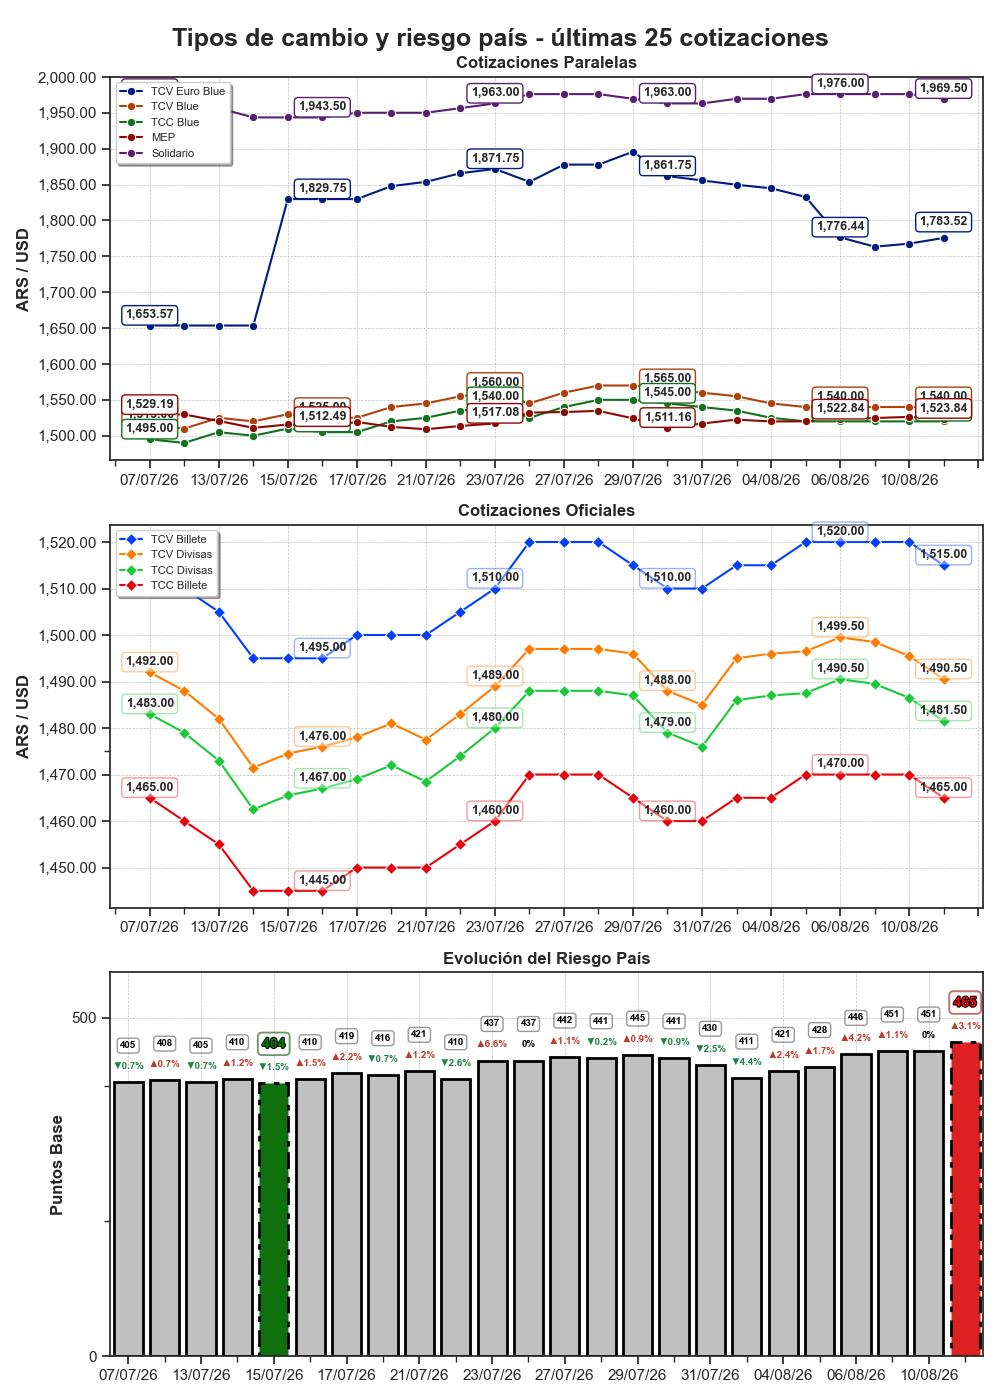
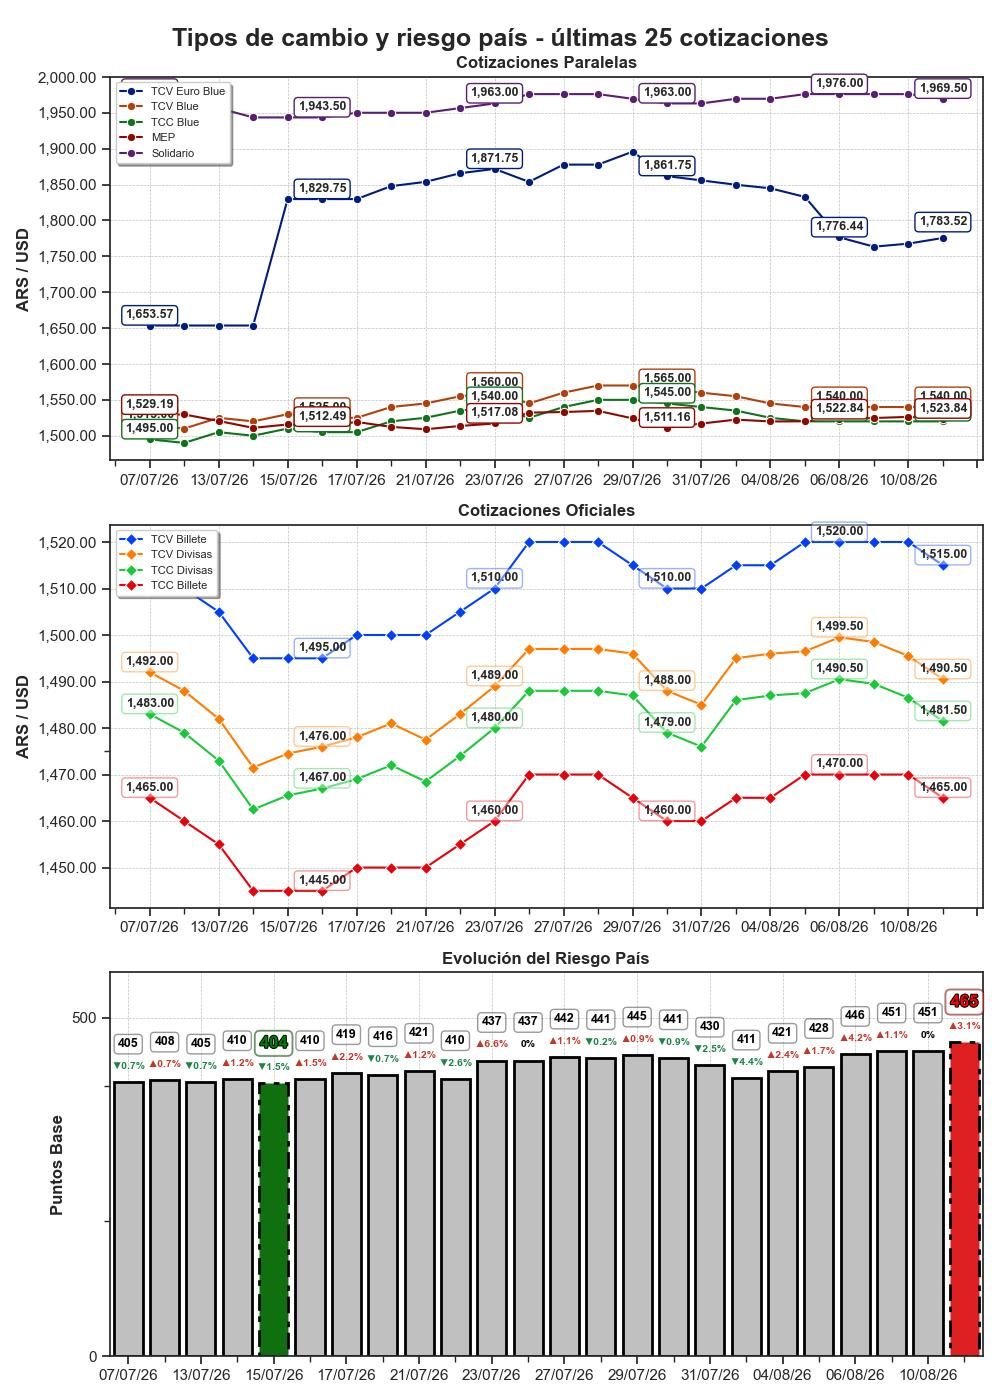
Ajustes de tipografia del cierre, tabla de inflacion y etiquetas del grafico
Plantilla del mail:
- Se saca la negrita de "Muchas gracias por leer".
- La linea del alias de MercadoPago pasa a 12px (1 mas que el resto) y se le
  achica el espacio de abajo, que quedaba grande.
- Las tres lineas del disclaimer quedan en el mismo tamano y sin cursivas.
  Solo el nombre y el mail van en negrita.
- Sombra en tablas y graficos. Gmail y Outlook descartan box-shadow, asi que
  el borde es lo que garantiza el recorte y la sombra queda como extra para
  los clientes que la soportan.
- La tabla de inflacion pasa de 8px a 12px. Tiene 4 columnas, no 14, asi que
  entra comoda; las otras dos se quedan en 8 o no entran en mobile.

Grafico de BTC: la etiqueta decia "Precio Hoy" pero el valor sale de
Close.iloc[-1], que es la ultima vela disponible y no necesariamente la de
hoy, porque yfinance cierra el dia en UTC y puede venir con retraso. Ahora
dice "Ultima cotizacion" y muestra la fecha del dato.

Grafico de riesgo pais: etiquetas mas grandes. El valor pasa de 7 a 9 (y de
10 a 12 en maximo y minimo). La variacion pasa de 7 a 7.5 y no mas: a 8.5 las
etiquetas de barras contiguas se tocaban, verificado renderizando.

diff --git a/templates/report_email.html b/templates/report_email.html
@@ -22,10 +22,21 @@
 
         /* TABLAS - scroll horizontal en mobile */
         .table-wrapper { width: 100%; overflow-x: auto; -webkit-overflow-scrolling: touch; }
-        table { border-collapse: collapse; width: 100%; min-width: 400px; margin: 12px 0; border: 1px solid #dcdde1; }
+        table { border-collapse: collapse; width: 100%; min-width: 400px; margin: 12px 0; border: 1px solid #dcdde1;
+                box-shadow: 0 2px 6px rgba(44,62,80,0.16); }
         table td, table th { font-size: 8px !important; padding: 4px 2px; text-align: center; border: 1px solid #dcdde1; }
         th { background-color: #2c3e50; color: #ffffff; text-transform: uppercase; }
         tr:nth-child(even) { background-color: #f8f9fa; }
+
+        /* La tabla de inflación tiene 4 columnas, no 14: entra cómoda con letra
+           más grande. Las otras dos se quedan en 8px o no entran en mobile. */
+        .tabla-inflacion table { min-width: 0; }
+        .tabla-inflacion table td, .tabla-inflacion table th { font-size: 12px !important; padding: 7px 6px; }
+
+        /* Sombra en los gráficos. Gmail y Outlook descartan box-shadow, así que
+           el borde es lo que garantiza el recorte; la sombra es un extra que se
+           ve en Apple Mail y clientes web modernos. */
+        .grafico { box-shadow: 0 2px 6px rgba(44,62,80,0.16); }
 
         /* HEADER */
         .header-box { background: #2c3e50; color: white; padding: 20px 15px; text-align: center; }
@@ -121,10 +132,10 @@
 
             <!-- GRÁFICOS -->
             <div style="text-align:center; width:100%; margin:20px 0;">
-              <img src='cid:image1' style="max-width:100%; height:auto; display:block; margin:0 auto 15px auto; border:1px solid #dcdde1; border-radius:4px;">
-              <img src='cid:image2' style="max-width:100%; height:auto; display:block; margin:0 auto 15px auto; border:1px solid #dcdde1; border-radius:4px;">
-              <img src='cid:image3' style="max-width:100%; height:auto; display:block; margin:0 auto 15px auto; border:1px solid #dcdde1; border-radius:4px;">
-              <img src='cid:image4' style="max-width:100%; height:auto; display:block; margin:0 auto 15px auto; border:1px solid #dcdde1; border-radius:4px;">
+              <img src='cid:image1' class="grafico" style="max-width:100%; height:auto; display:block; margin:0 auto 18px auto; border:1px solid #dcdde1; border-radius:4px; box-shadow:0 2px 6px rgba(44,62,80,0.16);">
+              <img src='cid:image2' class="grafico" style="max-width:100%; height:auto; display:block; margin:0 auto 18px auto; border:1px solid #dcdde1; border-radius:4px; box-shadow:0 2px 6px rgba(44,62,80,0.16);">
+              <img src='cid:image3' class="grafico" style="max-width:100%; height:auto; display:block; margin:0 auto 18px auto; border:1px solid #dcdde1; border-radius:4px; box-shadow:0 2px 6px rgba(44,62,80,0.16);">
+              <img src='cid:image4' class="grafico" style="max-width:100%; height:auto; display:block; margin:0 auto 18px auto; border:1px solid #dcdde1; border-radius:4px; box-shadow:0 2px 6px rgba(44,62,80,0.16);">
             </div>
 
             <!-- TABLA COTIZACIONES -->
@@ -141,7 +152,7 @@
             <!-- TABLA INFLACIÓN -->
             <p style="color:#2c3e50; margin-top:20px;">📈 <b><u>Termómetro de Inflación:</u></b><br>
             La siguiente tabla muestra las últimas 12 publicaciones del IPC. Tené en cuenta que la <b>inflación interanual es del {{ inflacion_interanual }}</b>:</p>
-            <div class="table-wrapper" style="width:100%; overflow-x:auto;">{{ tabla_inflacion | safe }}</div>
+            <div class="table-wrapper tabla-inflacion" style="width:100%; overflow-x:auto;">{{ tabla_inflacion | safe }}</div>
 
             <!-- FUENTES -->
             <div style="margin-top:30px; font-size:12px; color:#7f8c8d; border-top:1px solid #eee; padding-top:15px;">
@@ -158,7 +169,7 @@
 
             <!-- CIERRE -->
             <div style="margin-top:30px; border-top:1px solid #dcdde1; padding-top:20px;">
-              <p style="font-size:14px !important; color:#2c3e50;">🤓 <b>Muchas gracias por leer,</b><br>
+              <p style="font-size:14px !important; color:#2c3e50;">🤓 Muchas gracias por leer,<br>
               🤑 Ojalá esta información te sea de gran utilidad para tus decisiones.</p>
 
               <!-- Todo el cierre vive dentro de este recuadro.
@@ -173,14 +184,16 @@
                   <a href="https://linkedin.com/in/mauroemartinez/" style="text-decoration:none; color:#0077b5;"><b>LinkedIn</b></a>
                   | <a href="https://github.com/mauroemartinez/" style="text-decoration:none; color:#24292e;"><b>GitHub</b></a>
                 </p>
-                <p style="margin:0 0 14px 0; font-size:11px !important; color:#4d5a68;">
+                <p style="margin:0 0 8px 0; font-size:12px !important; color:#4d5a68;">
                   ☕ Si este reporte te ahorró tiempo y/o dinero, podés apoyar el proyecto al alias: <b style="color:#2c3e50;">mauroemartinezmp</b>
                 </p>
 
-                <div style="border-top:1px solid #dfe4ea; padding-top:14px; font-size:11px !important; color:#4d5a68; line-height:1.6;">
-                  🤖 <i>Este es un proceso de RPA desarrollado íntegramente en Python por <b style="color:#2c3e50;">Mauro E. Martinez</b>.</i><br>
-                  ⏱ <b>Performance:</b> El script procesó los datos y generó este envío en {{ '{:.2f}'.format(performance_segundos) }} segundos.<br>
-                  📧 <i>Consultas, desuscripciones o propuestas: <a href="mailto:mauro@globalaize.com" style="color:#2c3e50; text-decoration:underline;">mauro@globalaize.com</a></i>
+                <!-- Mismo tamaño, mismo estilo y sin cursivas en las tres líneas.
+                     Solo el nombre y el mail van en negrita. -->
+                <div style="border-top:1px solid #dfe4ea; padding-top:10px; font-size:11px !important; color:#4d5a68; line-height:1.6;">
+                  🤖 Este es un proceso de RPA desarrollado íntegramente en Python por <b style="color:#2c3e50;">Mauro E. Martinez</b>.<br>
+                  ⏱ Performance: el script procesó los datos y generó este envío en {{ '{:.2f}'.format(performance_segundos) }} segundos.<br>
+                  📧 Consultas, desuscripciones o propuestas: <a href="mailto:mauro@globalaize.com" style="color:#2c3e50; text-decoration:underline; font-weight:bold;">mauro@globalaize.com</a>
                 </div>
               </div>
             </div>
